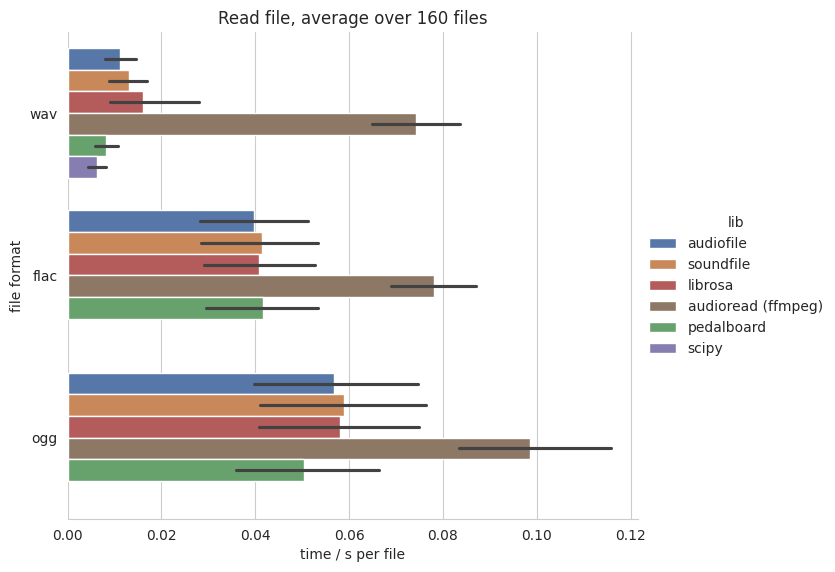
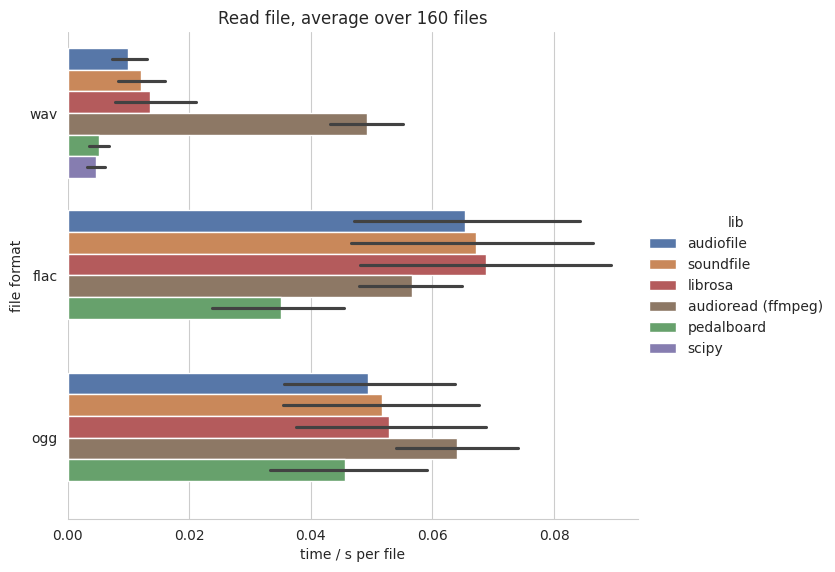
DOC: update benchmark results (#144)
* DOC: update benchmark results

* Add missing link for libsndfile

* Add exact hard drive name

* Remove sentence stating libsndfile version

* Update results

diff --git a/docs/benchmark.rst b/docs/benchmark.rst
@@ -31,11 +31,11 @@ Python packages
 The following Python packages are benchmarked against each other:
 
 * audioread_ 3.0.1
-* :mod:`audiofile` 1.3.0
+* :mod:`audiofile` 1.3.2
 * librosa_ 0.10.1
-* pedalboard_ 0.8.6
+* pedalboard_ 0.8.7
 * scipy_ 1.11.4
-* soundfile_ 0.21.1
+* soundfile_ 0.12.1
 * sox_ 1.4.1
 
 scipy_ and librosa_ are only tested for reading files,
@@ -70,11 +70,11 @@ Running the benchmark
 
 The benchmark was executed on the following machine:
 
-* CPU: Intel(R) Core(TM) i7-8750H CPU @ 2.20GHz x 12
-* RAM: 15.37 GB
-* Hard drive: Samsung SSD 860
-* Linux: Ubuntu 18.04.6
-* Python: 3.10.11
+* CPU: 13th Gen Intel Core i7-1355U, 10-core (2-mt/8-st)
+* RAM: 15.29 GiB
+* Hard drive: KIOXIA KXG8AZNV1T02
+* Linux: Ubuntu 22.04.3
+* Python: 3.10.12
 
 To rerun the benchmark yourself,
 clone the repository
@@ -156,6 +156,7 @@ in the figure.
 .. _ffmpeg: https://ffmpeg.org/
 .. _gstreamer: https://gstreamer.freedesktop.org/
 .. _librosa: https://github.com/librosa/librosa/
+.. _libsndfile: http://www.mega-nerd.com/libsndfile/
 .. _mad: https://sourceforge.net/projects/mad/
 .. _pedalboard: https://github.com/spotify/pedalboard
 .. _scipy: https://docs.scipy.org/doc/scipy/reference/generated/scipy.io.wavfile.read.html
